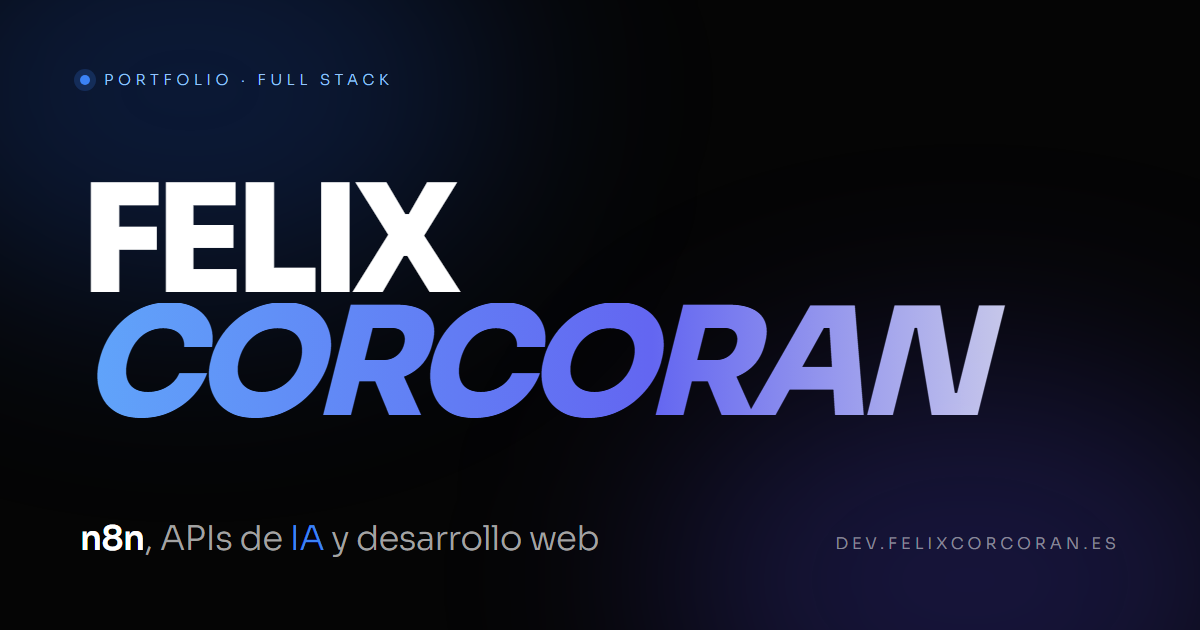
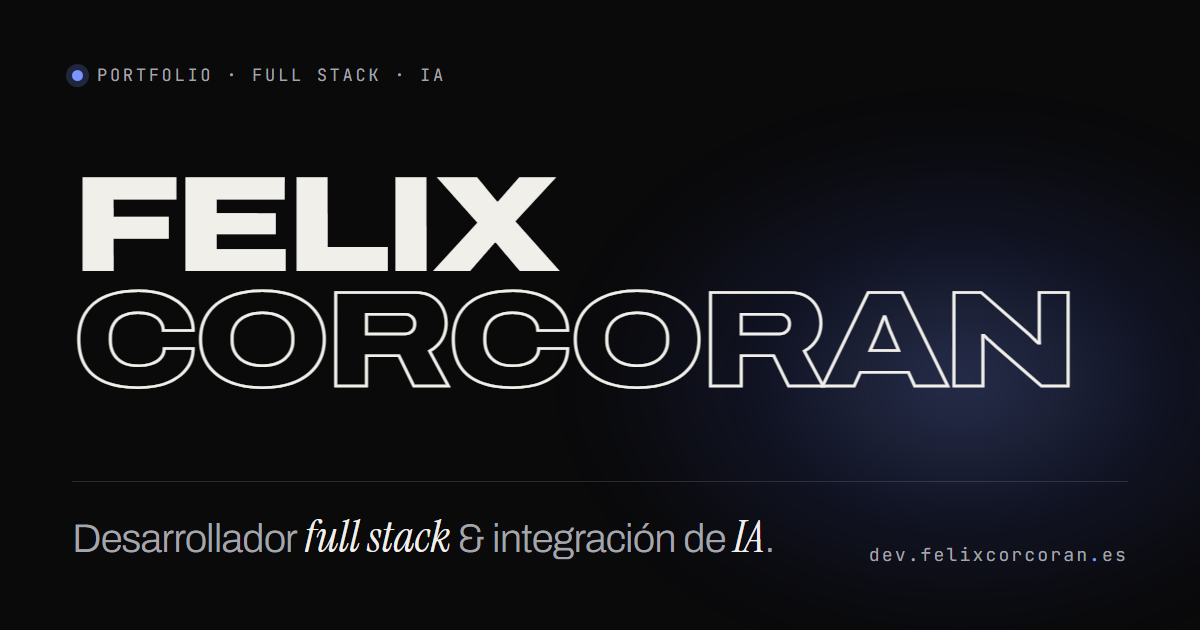
Revisión final: imagen para redes, privacidad, idioma, contraste y limpieza
- public/og.png con el diseño actual (npm run og la genera con og/og.mjs).
- Aviso de privacidad bajo el botón del formulario, con enlace al apartado
  del portfolio en felixcorcoran.es/privacidad.
- Envío del formulario: el texto se escapa antes de ir al HTML del correo,
  se valida el email y «Responder» contesta a quien escribió.
- «Proyectos» en lugar de «Proyectos propios» (Spain Trading Cards es de un
  cliente); título de la pestaña en cada idioma; texto alternativo en las
  capturas de los proyectos.
- Gris de textos pequeños con más contraste (de unos 3:1 a casi 5:1).
- Al cambiar ES/EN, la otra versión se abre en el mismo punto de lectura.
- README al día y fuera las traducciones que ya no se usan.

diff --git a/src/utils/i18n.js b/src/utils/i18n.js
@@ -15,17 +15,12 @@ const languages = {
     // Botones / Acciones comunes
     'btn.projects': 'Proyectos',
     'btn.cv': 'Currículum',
-    'btn.download': 'Descargar',
     'btn.visit': 'Visitar web',
     'btn.explore': 'Explorar',
 
     // Pilares Técnicos
     'stack.tagline.1': 'Con lo que',
     'stack.tagline.2': 'construyo mis proyectos.',
-    'tech.backend': 'Lógica de servidor y bases de datos bien estructuradas: PHP con MVC en producción, Laravel, Node.js con TypeScript para funciones serverless e integraciones, y Java y Python cuando el proyecto lo pide.',
-    'tech.frontend': 'Interfaces fieles al diseño, responsivas y rápidas: de un prototipo estático a una experiencia fluida, con Astro, React, Tailwind CSS, GSAP y 3D en Three.js.',
-    'tech.automation': 'Conecto modelos de IA con procesos reales: workflows en n8n, APIs de OpenAI, Claude y Gemini, y APIs de terceros como Shopify, Telegram o Google Places, con JSON como puente.',
-    'tech.future': 'Profundizando en Next.js y Supabase para construir productos full stack con renderizado en servidor y datos en tiempo real.',
 
     // Experiencia
     'exp.label': 'Trayectoria',
@@ -36,12 +31,11 @@ const languages = {
     'projects.section.subtitle': 'Trabajos',
     'btn.case': 'Ver caso',
     'btn.code': 'Código',
+    'shot.alt': 'Captura de',
     'projects.freelance.label': 'Galería freelance',
-    'projects.own.label': 'Proyectos propios',
-    'carousel.of': 'de',
+    'projects.own.label': 'Proyectos',
     'projects.freelance.title': 'Webs para negocios',
     'projects.freelance.sub': 'Diseño y desarrollo a medida',
-    'btn.open': 'Abrir proyecto',
 
     // Formulario de Contacto
     'contact.label': 'Contacto',
@@ -58,6 +52,8 @@ const languages = {
     'contact.placeholder.email': 'Tu correo...',
     'contact.placeholder.project': 'Cuéntame qué quieres construir...',
     'contact.send': 'Enviar mensaje',
+    'contact.privacy': 'Solo uso tus datos para responderte; nunca para publicidad.',
+    'contact.privacy.link': 'Política de privacidad',
     'contact.sending': 'Enviando...',
     'contact.sent': 'Enviado',
     'contact.success': '> Mensaje enviado. Te respondo pronto.',
@@ -78,27 +74,13 @@ const languages = {
     'stack.learning': 'Ahora aprendiendo',
     'contact.title.1': '¿Hablamos?',
     'contact.title.2': 'Escríbeme.',
-    'footer.built': 'Hecho con Astro, GSAP y Lenis',
-    // Footer
-    'footer.desc': 'Desarrollador full stack: web, automatización e integración de IA.',
-    'footer.business': '¿Tienes un negocio?',
 
-    // Rediseño: menú, enfoque, cifras y rótulos
+    // Rediseño: menú y rótulos
     'nav.projects': 'Proyectos',
     'nav.experience': 'Experiencia',
     'nav.stack': 'Stack',
     'nav.contact': 'Contacto',
     'nav.menu': 'Secciones',
-    'stats.label': 'En cifras',
-    'stats.own': 'proyectos propios publicados',
-    'stats.clients': 'webs de clientes en producción',
-    'stats.since': 'trabajando con clientes desde',
-    'stats.tech': 'tecnologías en uso',
-    'marquee.1': 'Full stack',
-    'marquee.2': 'IA',
-    'marquee.3': 'Automatización',
-    'scroll.hint': 'Desliza',
-    'projects.count': 'Proyecto',
     'exp.education': 'Formación',
     'exp.kind.freelance': 'Freelance',
     'exp.kind.intern': 'Prácticas',
@@ -120,17 +102,12 @@ const languages = {
     // Botones / Acciones comunes
     'btn.projects': 'Projects',
     'btn.cv': 'Resume',
-    'btn.download': 'Download',
     'btn.visit': 'Visit site',
     'btn.explore': 'Explore',
 
     // Pilares Técnicos
     'stack.tagline.1': 'What I build',
     'stack.tagline.2': 'my projects with.',
-    'tech.backend': 'Well-structured server logic and databases: PHP with MVC in production, Laravel, Node.js with TypeScript for serverless functions and integrations, and Java and Python when the project calls for it.',
-    'tech.frontend': 'Interfaces true to the design, responsive and fast: from a static prototype to a fluid experience, with Astro, React, Tailwind CSS, GSAP and 3D in Three.js.',
-    'tech.automation': 'I connect AI models with real processes: n8n workflows, OpenAI, Claude and Gemini APIs, and third-party APIs such as Shopify, Telegram or Google Places, with JSON as the bridge.',
-    'tech.future': 'Going deeper into Next.js and Supabase to build full stack products with server-side rendering and real-time data.',
 
     // Experience
     'exp.label': 'Background',
@@ -141,12 +118,11 @@ const languages = {
     'projects.section.subtitle': 'Works',
     'btn.case': 'View case',
     'btn.code': 'Code',
+    'shot.alt': 'Screenshot of',
     'projects.freelance.label': 'Freelance gallery',
-    'projects.own.label': 'Own projects',
-    'carousel.of': 'of',
+    'projects.own.label': 'Projects',
     'projects.freelance.title': 'Websites for businesses',
     'projects.freelance.sub': 'Custom design and development',
-    'btn.open': 'Open project',
 
     // Formulario de Contacto
     'contact.label': 'Contact',
@@ -163,6 +139,8 @@ const languages = {
     'contact.placeholder.email': 'Your email...',
     'contact.placeholder.project': 'Tell me what you want to build...',
     'contact.send': 'Send message',
+    'contact.privacy': 'I only use your details to reply to you; never for advertising.',
+    'contact.privacy.link': 'Privacy policy (in Spanish)',
     'contact.sending': 'Sending...',
     'contact.sent': 'Sent',
     'contact.success': "> Message sent. I'll get back to you soon.",
@@ -183,27 +161,13 @@ const languages = {
     'stack.learning': 'Currently learning',
     'contact.title.1': 'Let\x27s',
     'contact.title.2': 'Talk.',
-    'footer.built': 'Built with Astro, GSAP and Lenis',
-    // Footer
-    'footer.desc': 'Full stack developer: web, automation and AI integration.',
-    'footer.business': 'Running a business?',
 
-    // Redesign: menu, focus, numbers and labels
+    // Redesign: menu and labels
     'nav.projects': 'Projects',
     'nav.experience': 'Experience',
     'nav.stack': 'Stack',
     'nav.contact': 'Contact',
     'nav.menu': 'Sections',
-    'stats.label': 'In numbers',
-    'stats.own': 'own projects published',
-    'stats.clients': 'client websites live',
-    'stats.since': 'working with clients since',
-    'stats.tech': 'technologies in use',
-    'marquee.1': 'Full stack',
-    'marquee.2': 'AI',
-    'marquee.3': 'Automation',
-    'scroll.hint': 'Scroll',
-    'projects.count': 'Project',
     'exp.education': 'Education',
     'exp.kind.freelance': 'Freelance',
     'exp.kind.intern': 'Internship',

diff --git a/src/scripts/idioma.ts b/src/scripts/idioma.ts
@@ -1,0 +1,51 @@
+/**
+ * Cambio de idioma sin perder el sitio. Al pulsar ES/EN se apunta en qué
+ * sección se está leyendo y por dónde va (en proporción, porque el texto en
+ * inglés no mide lo mismo); al cargar el otro idioma, la página aparece ya en
+ * ese mismo punto. Mientras se coloca, el <head> la tiene oculta (clase
+ * lang-arriving) para que no se vea el salto.
+ */
+const KEY = 'lang-pos';
+const root = document.documentElement;
+const probe = () => innerHeight * 0.3;
+const sections = () => [...document.querySelectorAll<HTMLElement>('main > section[id]')];
+
+// Al salir: qué sección hay a un 30 % de la pantalla y cuánto se ha leído de ella
+document.querySelectorAll<HTMLAnchorElement>('.nav-lang a:not([aria-current])').forEach((link) => {
+    link.addEventListener('click', () => {
+        const y = scrollY + probe();
+        let current: HTMLElement | undefined;
+        for (const s of sections()) if (s.getBoundingClientRect().top + scrollY <= y) current = s;
+        if (!current) return;
+        const top = current.getBoundingClientRect().top + scrollY;
+        const share = (y - top) / Math.max(current.offsetHeight, 1);
+        try { sessionStorage.setItem(KEY, JSON.stringify({ id: current.id, share })); } catch {}
+    });
+});
+
+// Al llegar: se coloca en ese punto cuando ya están las alturas definitivas
+let saved: { id: string; share: number } | null = null;
+try {
+    saved = JSON.parse(sessionStorage.getItem(KEY) ?? 'null');
+    sessionStorage.removeItem(KEY);
+} catch {}
+
+const reveal = () => root.classList.remove('lang-arriving');
+if (saved) {
+    history.scrollRestoration = 'manual';
+    const place = () => {
+        const target = document.getElementById(saved!.id);
+        if (target) {
+            const top = target.getBoundingClientRect().top + scrollY;
+            window.scrollTo({ top: Math.max(0, top + saved!.share * target.offsetHeight - probe()), behavior: 'instant' });
+        }
+        requestAnimationFrame(reveal);
+    };
+    // Tras cargar imágenes y fuentes (y que las animaciones fijen sus secciones)
+    if (document.readyState === 'complete') setTimeout(place, 150);
+    else addEventListener('load', () => setTimeout(place, 150), { once: true });
+    // Pase lo que pase, la página no se queda oculta
+    setTimeout(reveal, 2500);
+} else {
+    reveal();
+}

diff --git a/src/pages/api/send-email.ts b/src/pages/api/send-email.ts
@@ -3,13 +3,17 @@ import { Resend } from 'resend';
 
 const resend = new Resend(import.meta.env.RESEND_API_KEY);
 
+// Lo que escribe el visitante se escapa antes de meterlo en el HTML del correo
+const escape = (value: string) =>
+  value.replace(/&/g, '&amp;').replace(/</g, '&lt;').replace(/>/g, '&gt;').replace(/"/g, '&quot;').replace(/'/g, '&#39;');
+
 export const POST: APIRoute = async ({ request }) => {
   const formData = await request.formData();
-  const nombre = formData.get('nombre');
-  const correo = formData.get('correo');
-  const proyecto = formData.get('proyecto');
+  const nombre = String(formData.get('nombre') ?? '').trim();
+  const correo = String(formData.get('correo') ?? '').trim();
+  const proyecto = String(formData.get('proyecto') ?? '').trim();
 
-  if (!nombre || !correo || !proyecto) {
+  if (!nombre || !correo || !proyecto || !/^[^\s@]+@[^\s@]+\.[^\s@]+$/.test(correo)) {
     return new Response(JSON.stringify({ message: "Faltan campos" }), { status: 400 });
   }
 
@@ -17,12 +21,14 @@ export const POST: APIRoute = async ({ request }) => {
     await resend.emails.send({
       from: 'Portfolio <onboarding@resend.dev>',
       to: 'felixxjbk@gmail.com',
-      subject: `Nuevo mensaje: ${nombre}`,
+      // «Responder» en el correo contesta directamente a quien escribió
+      replyTo: correo,
+      subject: `Nuevo mensaje: ${nombre.slice(0, 80)}`,
       html: `
         <h1>Nuevo contacto del Portfolio</h1>
-        <p><strong>Nombre:</strong> ${nombre}</p>
-        <p><strong>Email:</strong> ${correo}</p>
-        <p><strong>Mensaje:</strong> ${proyecto}</p>
+        <p><strong>Nombre:</strong> ${escape(nombre)}</p>
+        <p><strong>Email:</strong> ${escape(correo)}</p>
+        <p><strong>Mensaje:</strong> ${escape(proyecto).replace(/\n/g, '<br>')}</p>
       `,
     });
 

diff --git a/src/styles/portfolio.css b/src/styles/portfolio.css
@@ -9,7 +9,7 @@
   --panel-2: #1c1c22;
   --text: #f1efea;
   --muted: #a4a5ad;
-  --faint: #5d5e66;
+  --faint: #81828b;
   --line: rgb(241 239 234 / 0.1);
   --line-2: rgb(241 239 234 / 0.18);
   --accent: #7a95ff;
@@ -30,6 +30,9 @@
 }
 
 html { background: var(--bg); overflow-x: clip; }
+/* Llegando desde el otro idioma: oculta hasta colocarse en el mismo punto */
+html.lang-arriving .pf main, html.lang-arriving .pf footer { opacity: 0; }
+.pf main, .pf footer { transition: opacity .35s var(--ease); }
 .pf {
   background: var(--bg);
   color: var(--text);
@@ -481,6 +484,9 @@ html { background: var(--bg); overflow-x: clip; }
 .pf .contact-form .btn-solid { margin-top: 1.25rem; background: var(--bg); color: var(--text); border-color: var(--bg); }
 .pf .contact-form .btn-solid:hover { background: #3c5bdc; border-color: #3c5bdc; color: #fff; }
 .form-ok { margin: 1rem 0 0; font-family: var(--mono); font-size: 12px; color: #1f7a45; }
+.form-privacy { margin: .9rem 0 0; font-size: .8rem; line-height: 1.5; color: rgb(10 10 11 / .62); }
+.form-privacy a { color: rgb(10 10 11 / .85); border-bottom: 1px solid rgb(10 10 11 / .3); }
+.form-privacy a:hover { border-color: currentColor; }
 
 /* ---------- Pie: el nombre sobre un horizonte azul, con tres iconos ---------- */
 .foot {

diff --git a/README.md b/README.md
@@ -2,21 +2,37 @@
 
 Mi portfolio de desarrollador: [dev.felixcorcoran.es](https://dev.felixcorcoran.es) (en inglés en [/en](https://dev.felixcorcoran.es/en/)).
 
-Proyectos con capturas, experiencia, stack y contacto, con scroll suave y animaciones ligadas al scroll. El currículum en PDF sale de los mismos datos que la web.
+Proyectos, webs para negocios, experiencia, stack y contacto, con scroll suave y animaciones ligadas al scroll. El currículum en PDF sale de los mismos datos que la web.
 
 ## Una sola fuente de datos
 
 Todo el contenido (proyectos, experiencia, stack, formación, idiomas) está en [`src/data/perfil.ts`](src/data/perfil.ts), en español e inglés. De ahí salen:
 
-- las secciones de la web (`src/components/Portfolio.astro`, con estilos en `src/styles/portfolio.css` y animaciones en `src/scripts/motion.ts`), y
+- las secciones de la web ([`src/components/Portfolio.astro`](src/components/Portfolio.astro), con estilos en [`src/styles/portfolio.css`](src/styles/portfolio.css)), y
 - el currículum: `npm run cv` genera `public/cv-felix-corcoran.pdf` (español) y `public/resume-felix-corcoran.pdf` (inglés) imprimiendo HTML a PDF con Edge o Chrome. Está pensado para que lo lea bien un ATS: texto real, una columna de lectura y enlaces escritos.
+
+Las tecnologías de `cvOnly` (en `perfil.ts`) salen en el CV pero no en el Stack de la web. Los textos de la interfaz están en [`src/utils/i18n.js`](src/utils/i18n.js).
 
 Al cambiar `perfil.ts` o `cv/`, una GitHub Action ([`cv.yml`](.github/workflows/cv.yml)) regenera los dos PDF y los sube al repositorio.
 
+## Secciones y animaciones
+
+| Sección | Escritorio | Móvil |
+| --- | --- | --- |
+| Portada | Nombre que entra al cargar sobre humo azul con grano (shader WebGL, [`smoke.ts`](src/scripts/smoke.ts)) | Igual, más ligero |
+| Cinta | Dos bandas cruzadas que corren con el scroll | Igual |
+| Mis trabajos | Tarjetas que se apilan: llegan inclinadas en 3D, la captura se descubre y la de debajo se hunde; contador que gira | Carrusel horizontal ([`carrusel.ts`](src/scripts/carrusel.ts)) |
+| Webs para negocios | Tarjetas tipográficas que se desplazan en horizontal al bajar; con ratón, la captura sigue al cursor con física y barrido entre webs ([`preview.ts`](src/scripts/preview.ts)) | Igual, sin captura (se toca y abre la web) |
+| Experiencia | Línea central y hitos en zigzag; la descripción se ilumina palabra a palabra | Línea a la izquierda |
+| Stack | Globo de alambre con las tecnologías que se puede arrastrar; se encienden las del grupo activo ([`globe.ts`](src/scripts/globe.ts)) | Lista por grupos |
+| Contacto | Tarjeta que crece hasta su tamaño; pie con el nombre sobre un horizonte azul y estrellas ([`stars.ts`](src/scripts/stars.ts)) | Igual |
+
+Las animaciones de scroll están en [`src/scripts/motion.ts`](src/scripts/motion.ts) (GSAP + ScrollTrigger + Lenis). Las secciones fijadas solo se fijan en pantallas de más de 600 px de alto; con «reducir movimiento» no se carga nada de esto y la página se ve entera y estática. Al cambiar ES/EN, la otra versión se abre en el mismo punto de lectura ([`idioma.ts`](src/scripts/idioma.ts)).
+
 ## Stack
 
-- **Astro 6** con salida en servidor en **Vercel** (el formulario de contacto es una función que envía el correo con **Resend**).
-- **GSAP** (ScrollTrigger) y **Lenis** para el scroll suave y las animaciones: portada que entra al cargar, texto que se ilumina con el scroll, tarjetas de proyecto que se apilan, galería horizontal y contacto que se abre. En móvil y en pantallas bajas no hay secciones fijadas; con «reducir movimiento», todo queda estático.
+- **Astro 6** con salida en servidor en **Vercel**. El formulario de contacto es una función ([`send-email.ts`](src/pages/api/send-email.ts)) que envía el mensaje por correo con **Resend**.
+- **GSAP** y **Lenis** para el scroll y las animaciones; canvas y WebGL propios para el humo, el globo y las estrellas, sin librerías 3D.
 - **Tailwind CSS 4** solo para el reset; el resto, CSS propio. Tipografías Archivo, Instrument Serif y JetBrains Mono servidas desde el proyecto (Fontsource).
 - Capturas optimizadas con `astro:assets` e iconos del stack servidos desde el propio proyecto (Simple Icons).
 
@@ -26,6 +42,9 @@ Al cambiar `perfil.ts` o `cv/`, una GitHub Action ([`cv.yml`](.github/workflows/
 npm install
 npm run dev     # http://localhost:4321
 npm run cv      # regenera los PDF del currículum
+npm run og      # regenera public/og.png, la imagen al compartir el enlace
 ```
 
-El formulario necesita la variable `RESEND_API_KEY` (en Vercel o en un `.env` local).
+El formulario necesita la variable `RESEND_API_KEY` (en Vercel o en un `.env` local). Si se instalan paquetes con el servidor de desarrollo arrancado, hay que reiniciarlo: si no, las imágenes nuevas fallan con «Could not find Sharp».
+
+La política de privacidad del formulario está en felixcorcoran.es ([`/privacidad#portfolio`](https://felixcorcoran.es/privacidad#portfolio)), en el repositorio de la web de servicios.
